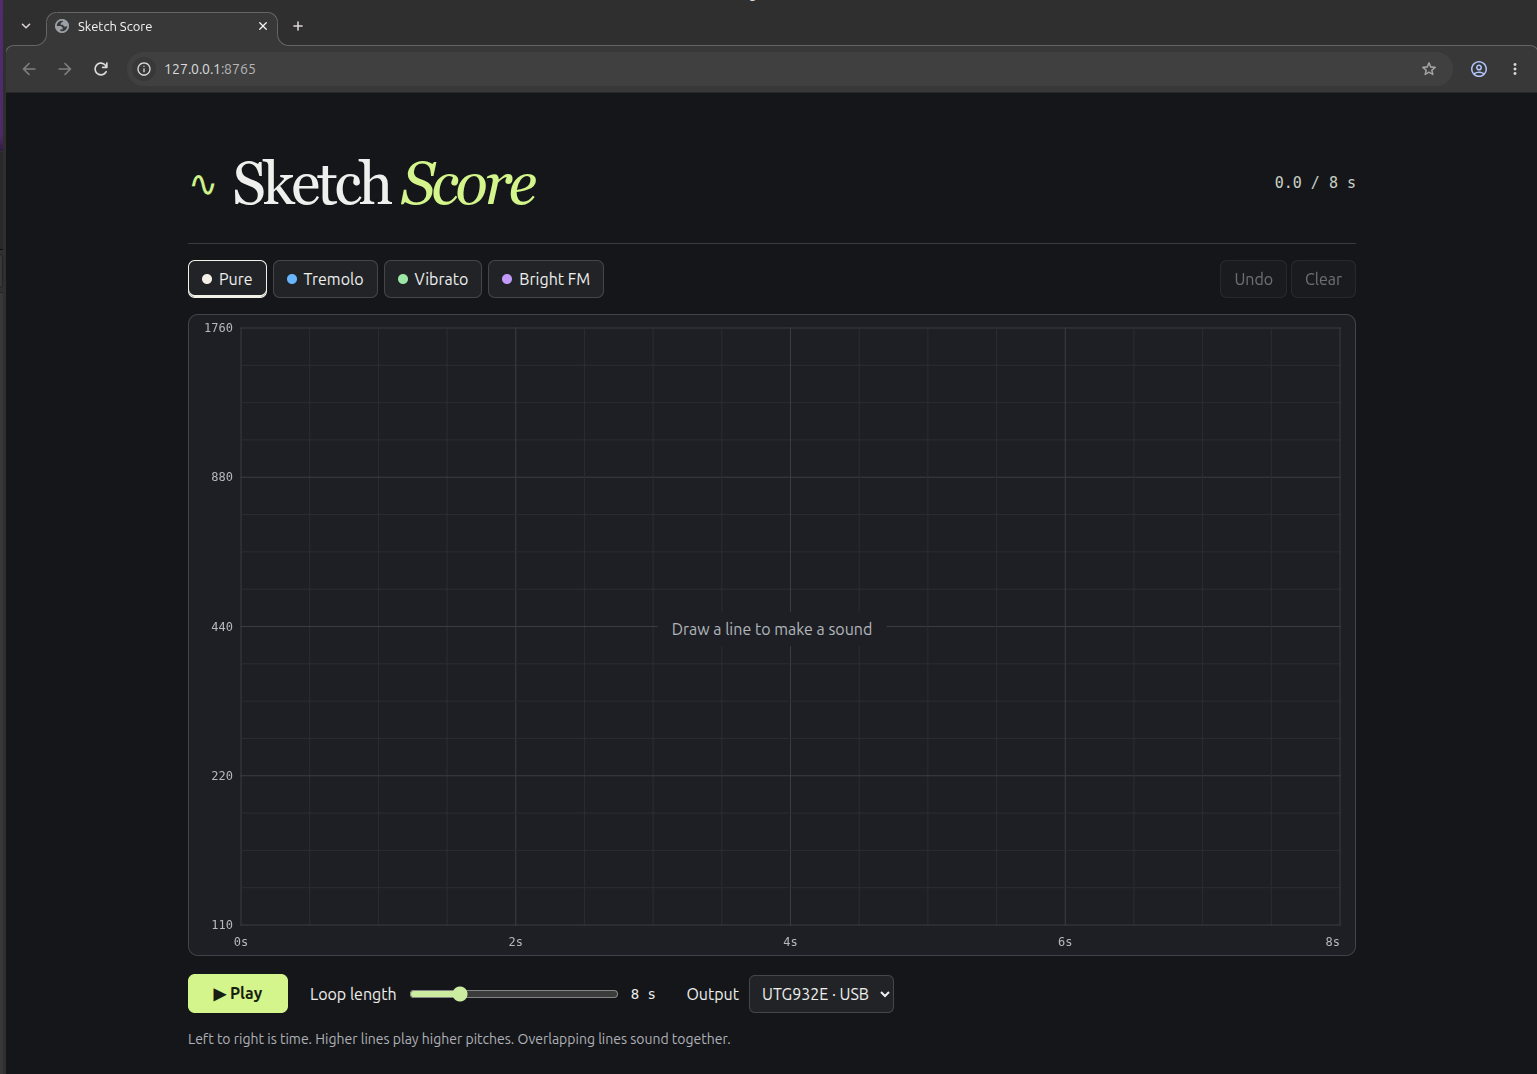
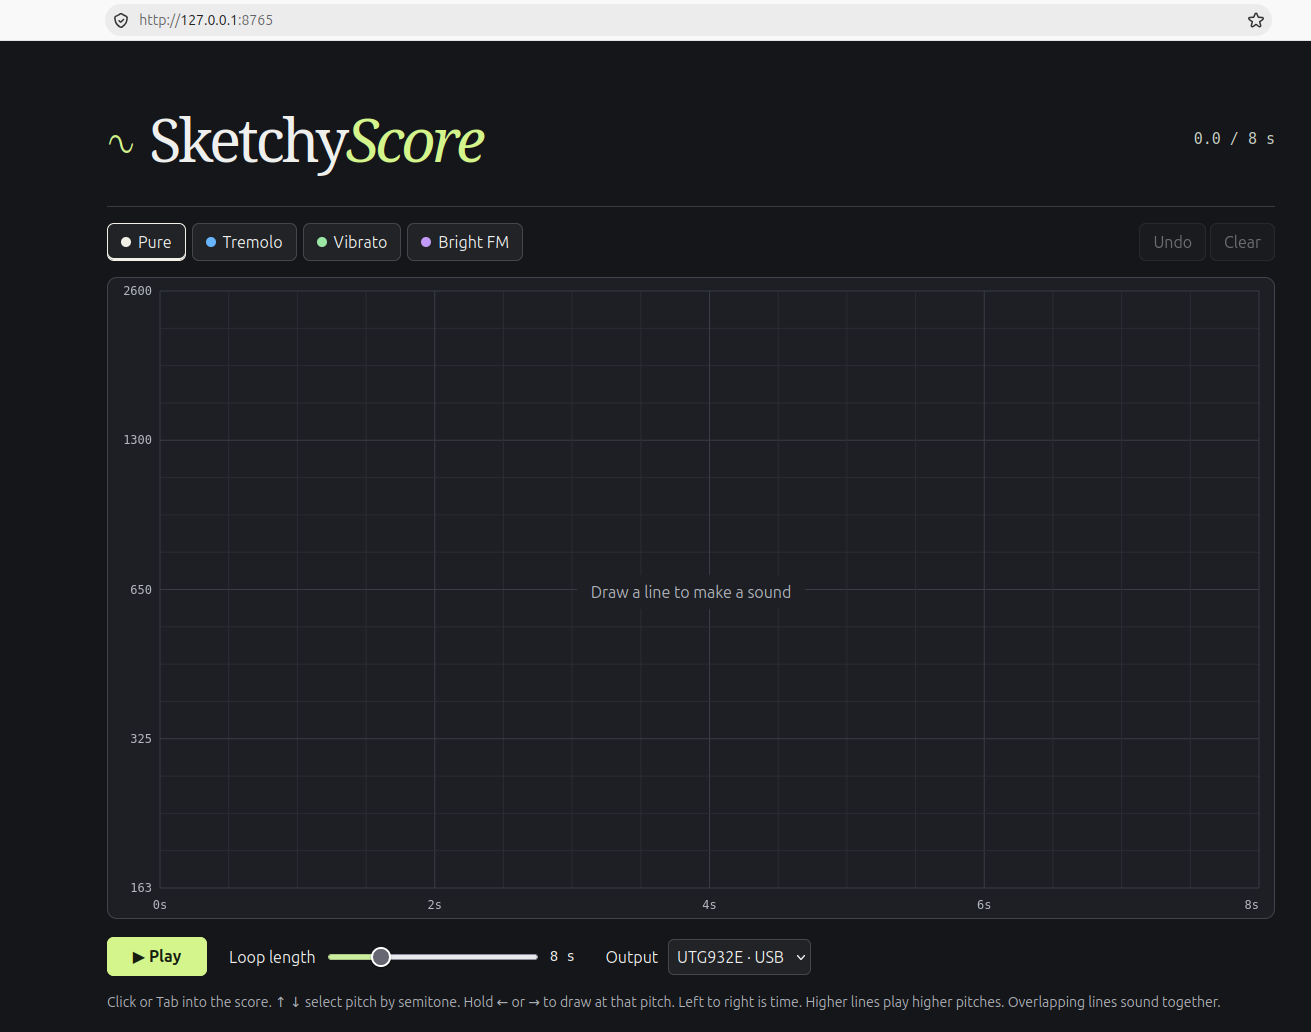
neaten

diff --git a/index.html b/index.html
@@ -1,14 +1,48 @@
 <!doctype html>
 <html lang="en"><meta charset="utf-8"><meta name="viewport" content="width=device-width,initial-scale=1">
-<title>Sketch Score</title>
+<title>SketcyScore</title>
 <style>
 *{box-sizing:border-box}body{margin:0;background:#151619;color:#eff0ee;font:16px "DM Sans",system-ui,sans-serif}main{max-width:1280px;margin:auto;padding:clamp(16px,4vw,56px)}header,.bar,.brushes,.transport,.control{display:flex;align-items:center;gap:12px;flex-wrap:wrap}header{justify-content:space-between;margin-bottom:26px}h1{font:500 clamp(32px,5vw,60px) Georgia,serif;letter-spacing:-.055em;margin:0}h1 i{color:#d3f58b;font-weight:400}.brand{display:flex;align-items:center;gap:14px}.mark{font:36px Georgia;color:#cff28a}.bar{justify-content:space-between;border-top:1px solid #393b40;padding:16px 0}.brushes{gap:6px}button{font:inherit;color:inherit;background:#212327;border:1px solid #45464b;border-radius:7px;padding:9px 13px;cursor:pointer}button:hover{background:#303238}button:focus-visible,input:focus-visible{outline:2px solid #d3f58b;outline-offset:3px}button:disabled{opacity:.4;cursor:default}.brush{display:flex;align-items:center;gap:7px}.brush b{height:10px;width:10px;background:var(--ink);border-radius:50%}.brush[aria-pressed=true]{border-color:var(--ink);box-shadow:inset 0 -2px var(--ink)}.editor{position:relative;border:1px solid #41434a;border-radius:10px;overflow:hidden;background:#1d1f24}canvas{width:100%;height:clamp(300px,52vh,640px);display:block;touch-action:none;cursor:crosshair}.hint{position:absolute;left:50%;top:49%;transform:translate(-50%,-50%);color:#b2b5bb;pointer-events:none;text-align:center;background:#1d1f24;padding:8px 14px;border-radius:6px}.transport{margin-top:18px;gap:22px}.play{background:#d3f58b;color:#171d10;border-color:#d3f58b;font-weight:650;min-width:100px}.play:hover{background:#e4ffb2}.control{gap:10px}.control output{font:14px monospace;min-width:4ch}input{accent-color:#cceca0;width:clamp(90px,16vw,210px)}.muted{color:#aeb1b8;font-size:14px}.clock{font:15px monospace;color:#cad1c5}footer{margin-top:18px;color:#aeb1b8;font-size:14px}button small{font:inherit}@media(max-width:560px){.brush{padding:9px}.transport{gap:12px}.bar{gap:10px}.hint{width:70%}}
 select{font:inherit;background:#212327;color:inherit;border:1px solid #45464b;padding:8px;border-radius:6px}#setup{padding:12px 0}a{color:#d3f58b}</style>
-<main><header><div class="brand"><span class="mark" aria-hidden="true">∿</span><h1>Sketchy<i>Score</i></h1></div><span class="clock" id="clock">0.0 / 8 s</span></header>
-<div class="bar"><div class="brushes" id="brushes" role="group" aria-label="Sound colors"></div><div><button id="undo" disabled>Undo</button> <button id="clear" disabled>Clear</button></div></div>
-<div class="editor"><canvas id="score" tabindex="0" aria-describedby="keys" aria-label="Pitch and time score"></canvas><span class="hint" id="hint">Draw a line to make a sound</span></div>
-<div class="transport"><button class="play" id="play">▶ Play</button><label class="control">Loop length <input id="duration" type="range" min="1" max="32" step="1" value="8"><output id="length">8 s</output></label>
-<label class="control">Output <select id="output"><option value="browser">Browser audio</option><option value="utg">UTG932E · USB</option></select></label></div>
-<div id="setup" hidden><p>On your Mint laptop, extract the kit, then run <code>python bridge.py</code> in your PyVISA environment. Open the local address printed in the terminal.</p><a href="sketch-score-usb.zip" download>Download USB kit</a></div>
-<footer><span id="keys">Click or Tab into the score. ↑ ↓ select pitch by semitone. Hold ← or → to draw at that pitch.</span> Left to right is time. Higher lines play higher pitches. Overlapping lines sound together.</footer><p id="error" role="alert"></p></main>
-<script defer src="score.js"></script><script defer src="hardware.js"></script></html>
+<main>
+	<header>
+		<div class="brand"><span class="mark" aria-hidden="true">∿</span><h1>Sketchy<i>Score</i></h1></div>
+		<span class="clock" id="clock">0.0 / 8 s</span>
+	</header>
+
+<div class="bar">
+	<div class="brushes" id="brushes" role="group" aria-label="Sound colors"></div>
+		<div>
+			<button id="undo" disabled>Undo</button> 
+			<button id="clear" disabled>Clear</button>
+		</div>
+	</div>
+
+<div class="editor">
+	<canvas id="score" tabindex="0" aria-describedby="keys" aria-label="Pitch and time score"></canvas>
+	<span class="hint" id="hint">Draw a line to make a sound</span>
+</div>
+
+<div class="transport">
+	<button class="play" id="play">▶ Play</button>
+		<label class="control">Loop length <input id="duration" type="range" min="1" max="32" step="1" value="8"><output id="length">8 s</output></label>
+		<label class="control">Output <select id="output">
+			<option value="browser">Browser audio</option>
+			<option value="utg">UTG932E · USB</option></select>
+		</label>
+</div>
+
+<div id="setup" hidden>
+	<p>On your Mint laptop, extract the kit, then run <code>python bridge.py</code> in your PyVISA environment. Open the local address printed in the terminal.</p>
+    <a href="sketch-score-usb.zip" download>Download USB kit</a>
+</div>
+
+<footer>
+	<span id="keys">Click or Tab into the score. ↑ ↓ select pitch by semitone. Hold ← or → to draw at that pitch.</span> 
+	Left to right is time. Higher lines play higher pitches. Overlapping lines sound together.
+</footer>
+	<p id="error" role="alert"></p>
+</main>
+
+<script defer src="score.js"></script>
+<script defer src="hardware.js"></script></html>
